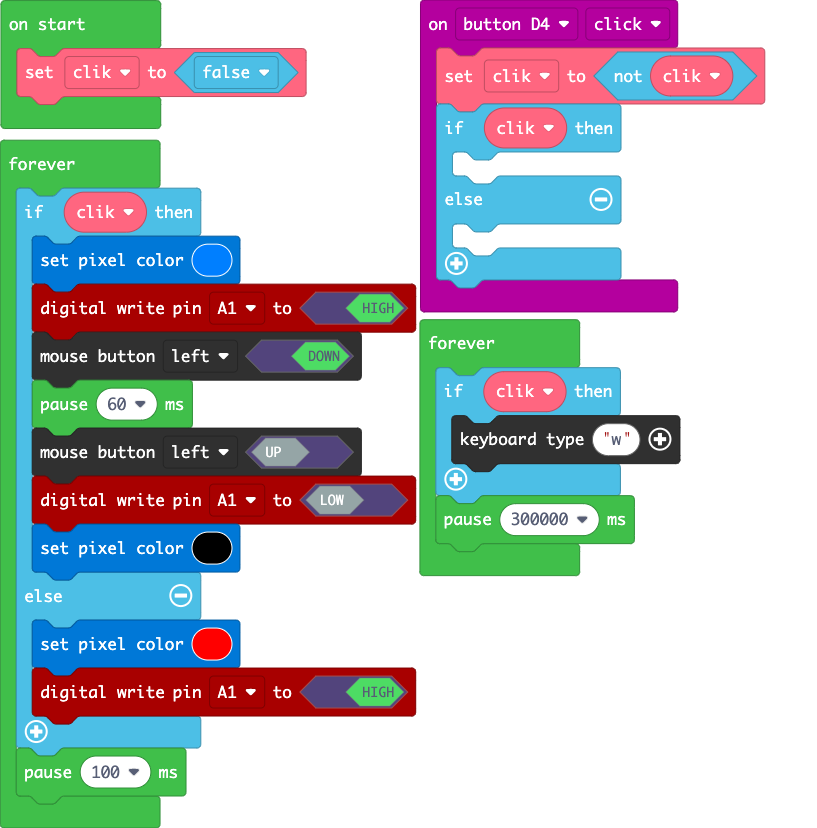
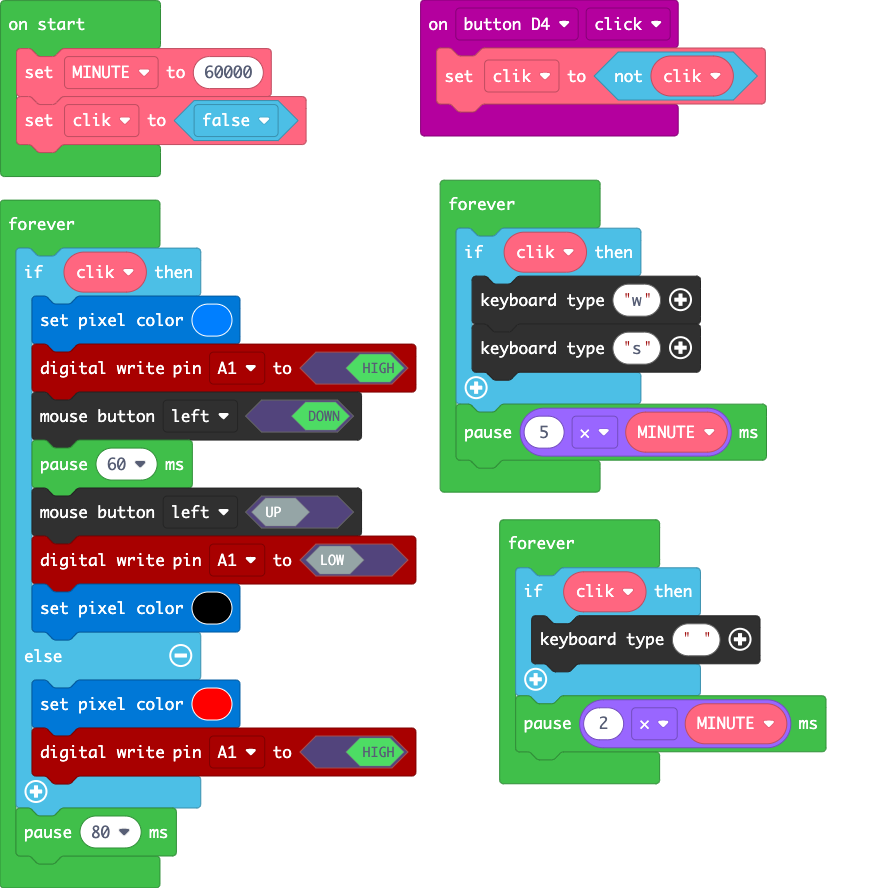
support for jumping

diff --git a/main.ts b/main.ts
@@ -1,12 +1,8 @@
 input.buttonD4.onEvent(ButtonEvent.Click, function () {
     clik = !(clik)
-    if (clik) {
-    	
-    } else {
-    	
-    }
 })
 let clik = false
+let MINUTE = 60000
 clik = false
 forever(function () {
     if (clik) {
@@ -21,11 +17,18 @@ forever(function () {
         pixel.setColor(0xff0000)
         pins.A1.digitalWrite(true)
     }
-    pause(100)
+    pause(80)
 })
 forever(function () {
     if (clik) {
         keyboard.type("w")
+        keyboard.type("s")
     }
-    pause(300000)
+    pause(5 * MINUTE)
+})
+forever(function () {
+    if (clik) {
+        keyboard.type(" ")
+    }
+    pause(2 * MINUTE)
 })
